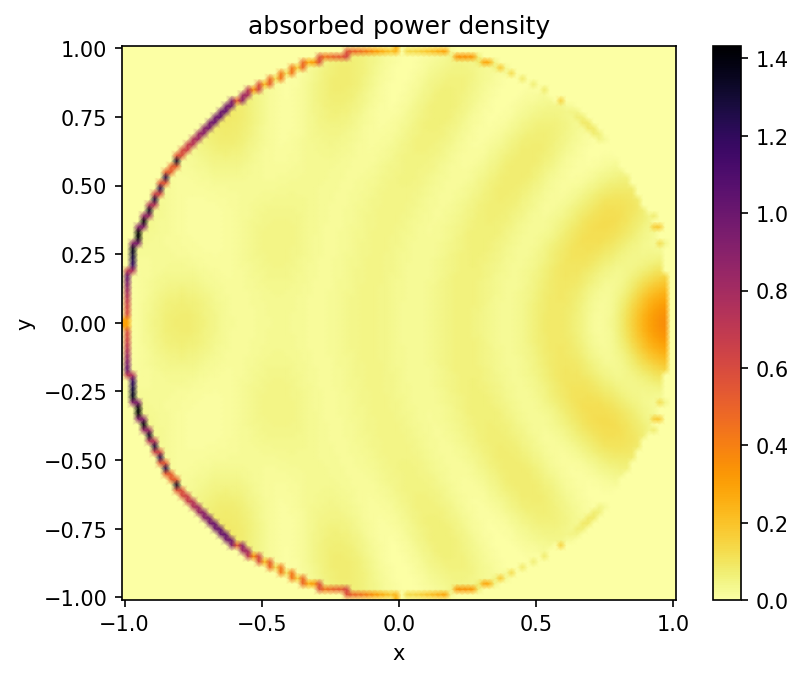
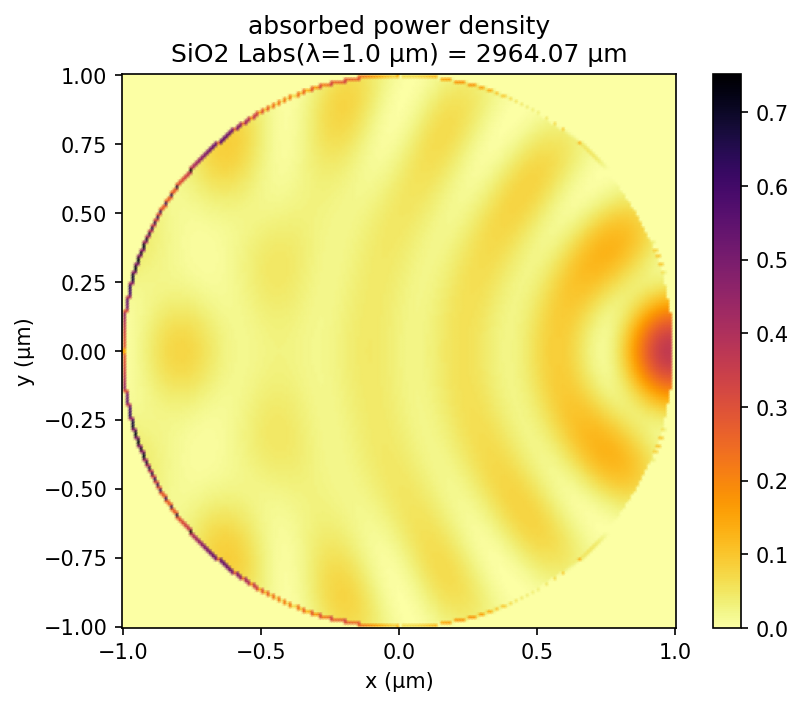
comments on discretization artifacts due to dispersive materials

diff --git a/python/examples/absorbed_power_density.py b/python/examples/absorbed_power_density.py
@@ -6,7 +6,7 @@ import matplotlib.pyplot as plt
 import meep as mp
 from meep.materials import SiO2
 
-resolution = 50  # pixels/um
+resolution = 100  # pixels/um
 
 dpml = 1.0
 pml_layers = [mp.PML(thickness=dpml)]
@@ -17,7 +17,8 @@ dair = 2.0  # air padding thickness
 s = 2*(dpml+dair+r)
 cell_size = mp.Vector3(s,s)
 
-fcen = 1.0  # wavelength of 1.0 um
+wvl = 1.0
+fcen = 1/wvl
 
 # is_integrated=True necessary for any planewave source extending into PML
 sources = [mp.Source(mp.GaussianSource(fcen,fwidth=0.1*fcen,is_integrated=True),
@@ -51,25 +52,25 @@ flux_box = sim.add_flux(fcen, 0, 1,
 
 sim.run(until_after_sources=100)
 
-plt.figure()
-sim.plot2D()
-plt.savefig('power_density_cell.png',dpi=150,bbox_inches='tight')
-
 (x,y,z,w) = sim.get_array_metadata(dft_cell=dft_fields)
 Dz = sim.get_dft_array(dft_fields,mp.Dz,0)
 Ez = sim.get_dft_array(dft_fields,mp.Ez,0)
 absorbed_power_density = 2*np.pi*fcen * np.imag(np.conj(Ez)*Dz)
 
-plt.figure()
-plt.pcolormesh(x,y,np.transpose(absorbed_power_density),cmap='inferno_r',shading='gouraud',vmin=0,vmax=np.amax(absorbed_power_density))
-plt.xlabel("x")
-plt.ylabel("y")
-plt.gca().set_aspect('equal')
-plt.title("absorbed power density")
-plt.colorbar()
-plt.savefig('power_density_map.png',dpi=150,bbox_inches='tight')
-
 absorbed_power = np.sum(w*absorbed_power_density)
 absorbed_flux = mp.get_fluxes(flux_box)[0]
 err = abs(absorbed_power-absorbed_flux)/absorbed_flux
 print("flux:, {} (dft_fields), {} (dft_flux), {} (error)".format(absorbed_power,absorbed_flux,err))
+
+plt.figure()
+sim.plot2D()
+plt.savefig('power_density_cell.png',dpi=150,bbox_inches='tight')
+
+plt.figure()
+plt.pcolormesh(x,y,np.transpose(absorbed_power_density),cmap='inferno_r',shading='gouraud',vmin=0,vmax=np.amax(absorbed_power_density))
+plt.xlabel("x (μm)")
+plt.ylabel("y (μm)")
+plt.gca().set_aspect('equal')
+plt.title("absorbed power density" + "\n" +"SiO2 Labs(λ={} μm) = {:.2f} μm".format(wvl,wvl/np.imag(np.sqrt(SiO2.epsilon(fcen)[0][0]))))
+plt.colorbar()
+plt.savefig('power_density_map.png',dpi=150,bbox_inches='tight')

diff --git a/doc/docs/Python_Tutorials/Basics.md b/doc/docs/Python_Tutorials/Basics.md
@@ -899,9 +899,9 @@ scatt:, 8.2215435272741395 (meep), 8.3429545590438750 (theory)
 Absorbed Power Density Map of a Lossy Cylinder
 ----------------------------------------------
 
-The `dft_flux` routines (`add_flux`) described in the previous examples compute the *total* power in a given region (`FluxRegion`). It is also possible to compute the *local* (i.e., position-dependent) absorbed power density in a dispersive (lossy) material. This quantity is useful for obtaining a spatial map of the photon absorption. The absorbed power density is defined as $$\mathrm{Re}\, \left[ {\mathbf{E}^* \cdot \frac{d\mathbf{P}}{dt}} \right]$$ where $\mathbf{P}$ is the total polarization field. In the Fourier (frequency) domain with time-harmonic fields, this expression is $$\mathrm{Re}\, {\mathbf{E}^* \cdot (-i \omega \mathbf{P})} = \omega\, \mathrm{Im}\, {\mathbf{E}^* \cdot \mathbf{P}} $$ where $\mathbf{E}^* \cdot \mathbf{P}$ denotes the dot product of the conjugate of $\mathbf{E}$ with $\mathbf{P}$. However, since $\mathbf{D}=\mathbf{E}+\mathbf{P}$, this is equivalent to $$ \omega\, \mathrm{Im}\, {\mathbf{E}^* \cdot (\mathbf{D}-\mathbf{E})} = \omega\, \mathrm{Im}\, {\mathbf{E}^* \cdot \mathbf{D}} $$ since $\mathbf{E}^* \cdot \mathbf{E} = |\mathbf{E}|^2$ is purely real. Calculating this quantity involves two steps: (1) compute the Fourier-transformed $\mathbf{E}$ and $\mathbf{D}$ fields in a region via the `dft_fields` feature and (2) in post processing, compute $\omega\, \mathrm{Im}\, {\mathbf{E}^* \cdot \mathbf{D}}$.
+The `dft_flux` routines (`add_flux`) described in the previous examples compute the *total* power in a given region (`FluxRegion`). It is also possible to compute the *local* (i.e., position-dependent) absorbed power density in a dispersive (lossy) material. This quantity is useful for obtaining a spatial map of the photon absorption. The absorbed power density is defined as $$\mathrm{Re}\, \left[ {\mathbf{E}^* \cdot \frac{d\mathbf{P}}{dt}} \right]$$ where $\mathbf{P}$ is the total polarization field. In the Fourier (frequency) domain with time-harmonic fields, this expression is $$\mathrm{Re}\, \left[ {\mathbf{E}^* \cdot (-i \omega \mathbf{P})} \right] = \omega\, \mathrm{Im}\, \left[ {\mathbf{E}^* \cdot \mathbf{P}} \right]$$ where $\mathbf{E}^* \cdot \mathbf{P}$ denotes the dot product of the complex conjugate of $\mathbf{E}$ with $\mathbf{P}$. However, since $\mathbf{D}=\mathbf{E}+\mathbf{P}$, this is equivalent to $$ \omega\, \mathrm{Im}\, \left[ {\mathbf{E}^* \cdot (\mathbf{D}-\mathbf{E})} \right] = \omega\, \mathrm{Im}\, \left[ {\mathbf{E}^* \cdot \mathbf{D}} \right]$$ since $\mathbf{E}^* \cdot \mathbf{E} = |\mathbf{E}|^2$ is purely real. Calculating this quantity involves two steps: (1) compute the Fourier-transformed $\mathbf{E}$ and $\mathbf{D}$ fields in a region via the `dft_fields` feature and (2) in post processing, compute $\omega\, \mathrm{Im}\, \left[ {\mathbf{E}^* \cdot \mathbf{D}} \right]$.
 
-This tutorial example involves computing a map of the absorbed power density for a cylinder (radius: 1 μm) of SiO<sub>2</sub> from the [materials library](Materials.md#materials-library) at a wavelength of 1 μm given an incident $E_z$-polarized planewave. We will also verify that the *total* power absorbed by the cylinder is the same when computed using two different methods: (1) integrating the absorbed power density over the entire cylinder or (2) surrounding the cylinder with a four-sided, closed `dft_flux` box (Poynting's theorem).
+This tutorial example involves computing the absorbed power density for a cylinder (radius: 1 μm) of silicon dioxide (SiO<sub>2</sub>, from the [materials library](../Materials.md#materials-library)) at a wavelength of 1 μm given an incident $E_z$-polarized planewave. (The [attenuation length](https://en.wikipedia.org/wiki/Refractive_index#Complex_refractive_index) of SiO<sub>2</sub> at this wavelength is $\lambda/\mathrm{Im}\, \sqrt{\varepsilon}$ = ~3000 μm.) We will also verify that the total power absorbed by the cylinder obtained by integrating the absorbed power density over the entire cylinder is equivalent to the same quantity computed using the standard method involving a closed, four-sided `dft_flux` box (Poynting's theorem).
 
 The simulation script is in [examples/absorbed_power_density.py](https://github.com/NanoComp/meep/blob/master/python/examples/absorbed_power_density.py).
 
@@ -914,7 +914,7 @@ import matplotlib.pyplot as plt
 import meep as mp
 from meep.materials import SiO2
 
-resolution = 50  # pixels/um
+resolution = 100  # pixels/um
 
 dpml = 1.0
 pml_layers = [mp.PML(thickness=dpml)]
@@ -925,7 +925,8 @@ dair = 2.0  # air padding thickness
 s = 2*(dpml+dair+r)
 cell_size = mp.Vector3(s,s)
 
-fcen = 1.0  # wavelength of 1.0 um
+wvl = 1.0
+fcen = 1/wvl
 
 # is_integrated=True necessary for any planewave source extending into PML
 sources = [mp.Source(mp.GaussianSource(fcen,fwidth=0.1*fcen,is_integrated=True),
@@ -959,28 +960,28 @@ flux_box = sim.add_flux(fcen, 0, 1,
 
 sim.run(until_after_sources=100)
 
-plt.figure()
-sim.plot2D()
-plt.savefig('power_density_cell.png',dpi=150,bbox_inches='tight')
-
 (x,y,z,w) = sim.get_array_metadata(dft_cell=dft_fields)
 Dz = sim.get_dft_array(dft_fields,mp.Dz,0)
 Ez = sim.get_dft_array(dft_fields,mp.Ez,0)
 absorbed_power_density = 2*np.pi*fcen * np.imag(np.conj(Ez)*Dz)
 
-plt.figure()
-plt.pcolormesh(x,y,np.transpose(absorbed_power_density),cmap='inferno_r',shading='gouraud',vmin=0,vmax=np.amax(absorbed_power_density))
-plt.xlabel("x")
-plt.ylabel("y")
-plt.gca().set_aspect('equal')
-plt.title("absorbed power density")
-plt.colorbar()
-plt.savefig('power_density_map.png',dpi=150,bbox_inches='tight')
-
 absorbed_power = np.sum(w*absorbed_power_density)
 absorbed_flux = mp.get_fluxes(flux_box)[0]
 err = abs(absorbed_power-absorbed_flux)/absorbed_flux
 print("flux:, {} (dft_fields), {} (dft_flux), {} (error)".format(absorbed_power,absorbed_flux,err))
+
+plt.figure()
+sim.plot2D()
+plt.savefig('power_density_cell.png',dpi=150,bbox_inches='tight')
+
+plt.figure()
+plt.pcolormesh(x,y,np.transpose(absorbed_power_density),cmap='inferno_r',shading='gouraud',vmin=0,vmax=np.amax(absorbed_power_density))
+plt.xlabel("x (μm)")
+plt.ylabel("y (μm)")
+plt.gca().set_aspect('equal')
+plt.title("absorbed power density" + "\n" +"SiO2 Labs(λ={} μm) = {:.2f} μm".format(wvl,wvl/np.imag(np.sqrt(SiO2.epsilon(fcen)[0][0]))))
+plt.colorbar()
+plt.savefig('power_density_map.png',dpi=150,bbox_inches='tight')
 ```
 
 A schematic of the simulation layout generated using [`plot2D`](Python_User_Interface.md#data-visualization) shows the line source (red), PMLs (green hatch region), `dft_flux` box (solid blue contour line), and `dft_fields` surface (blue hatch region).
@@ -989,16 +990,16 @@ A schematic of the simulation layout generated using [`plot2D`](Python_User_Inte
 ![](../images/power_density_cell.png)
 </center>
 
-The spatial map of the absorbed power density shows that, as expected, most of the absorption occurs on the surface of the cylinder facing the incident planewave. Note that the labeled $x$ and $y$ coordinate axes of the 2d region are obtained using [`get_array_metadata`](Python_User_Interface.md#array-metadata) which also provides the interpolation weights (`w`) used to compute the integral of the absorbed power density.
+The spatial map of the absorbed power density shows that most of the absorption occurs over a thin (~1 pixel) layer on the surface of the cylinder facing the incident planewave. However, this is mainly a discretization artifact due to the [field discontinuities at the interface of the dispersive material](../Subpixel_Smoothing.md). Note that the labeled $x$ and $y$ coordinate axes of the 2d cell subregion are obtained using [`get_array_metadata`](Python_User_Interface.md#array-metadata) which also provides the interpolation weights (`w`) used to compute the integral of the absorbed power density.
 
 <center>
 ![](../images/power_density_map.png)
 </center>
 
-Finally, the two values for the total absorbed power which are displayed at the end of the run are nearly equivalent. The relative error between the two methods is ~0.015%.
+Finally, the two values for the total absorbed power which are displayed at the end of the run are nearly equivalent. The relative error between the two methods is ~0.003%.
 
 ```
-flux:, 0.13616252647147556 (dft_fields), 0.13618334277271416 (dft_flux), 0.00015285497341138284 (error)
+flux:, 0.1320947902006485 (dft_fields), 0.13249534167200672 (dft_flux), 0.0030231362574980004 (error)
 ```
 
 Modes of a Ring Resonator
